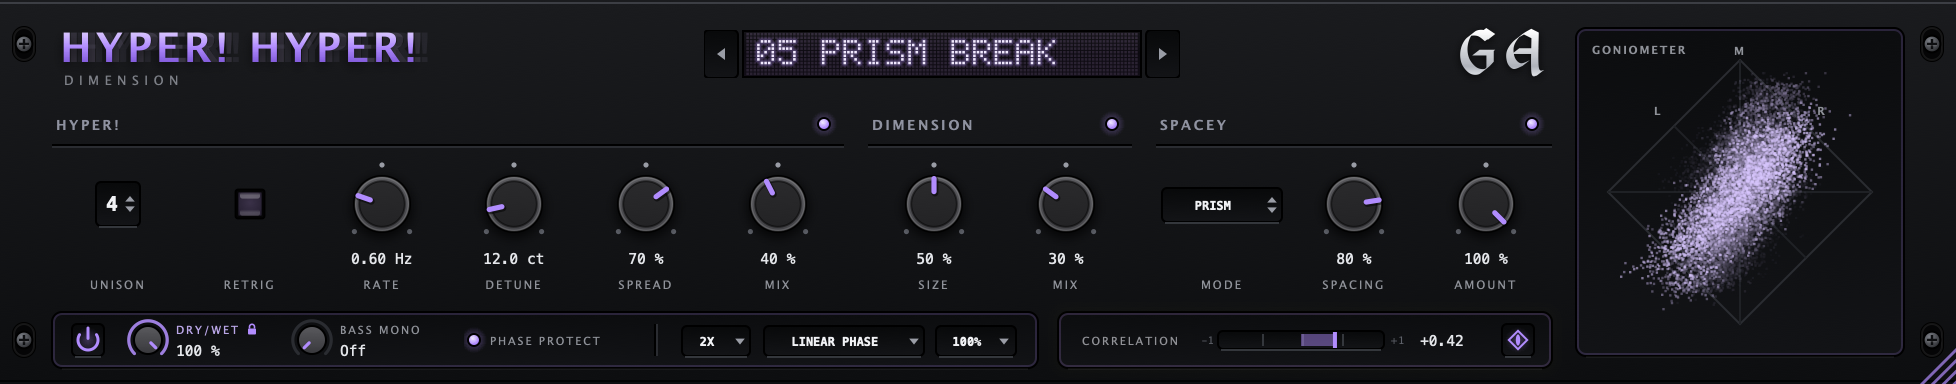
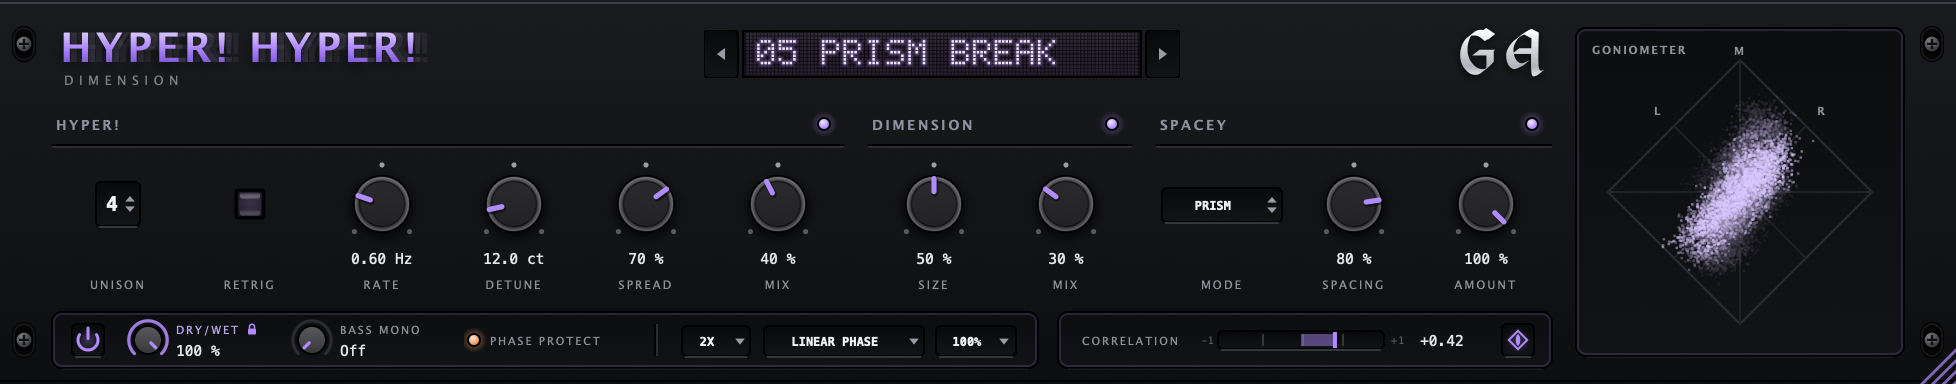
Phase Protect LED flashes instead of the meter, only above 2 dB; goniometer stays in bounds; lock fixes
- The Phase Protect LED flashes orange while it audibly narrows the sound (side pulled back
  by more than 2 dB); the correlation meter stays a pure meter. Measured on the factory
  presets: only those that would go negative without it get past 2 dB.
- Goniometer auto gain by the left / right peak with the right geometry: the diamond's edge is
  the current peak, no point can leave it.
- Lock: no underline on hover; the padlock is part of the click area, so it also unlocks.

Changed region(s): [[0.842, 0.2188, 0.9356, 0.7812], [0.2183, 0.875, 0.2495, 0.9062]]

diff --git a/Source/MainPanel.cpp b/Source/MainPanel.cpp
@@ -99,7 +99,7 @@ MainPanel::MainPanel (HyperDimAudioProcessor& p)
     dmix.setTooltip ("Dimension mix. At 0 % the Dimension section is off.");
     wamt.setTooltip ("Spacey amount. At 0 % the Spacey section is off.");
     bypass.setTooltip ("Bypass: click-free, at the same loudness as the effect. Dry/Wet at 0 % bypasses too.");
-    phaseProtect.setTooltip ("Phase Protect: keeps the effect mono-compatible. The correlation meter flashes orange while it works.");
+    phaseProtect.setTooltip ("Phase Protect: keeps the effect mono-compatible. The LED flashes orange while it audibly pulls the width back.");
     scopeButton.setTooltip ("Show / hide the goniometer");
     osFilter.setTooltip ("Anti-alias filter: Linear Phase (cleanest, more latency) or Low Latency (minimal delay)");
     sizeBox.setTooltip ("Window size (or drag the bottom right corner)");
@@ -244,16 +244,17 @@ void MainPanel::updateMeters()
     if (goniometer.isVisible())
         goniometer.push (scopeL.data(), scopeR.data(), n);
 
-    // Phase Protect at work: the correlation box flashes orange (held 0.5 s, so short bursts are seen)
+    // Phase Protect making an audible difference (side pulled back by more than 2 dB): its LED
+    // flashes orange, held 0.5 s so short bursts are seen. Below 2 dB it only fine-tunes; measured
+    // on the factory presets, only those that would otherwise go negative get past 2 dB.
     const auto now = juce::Time::getMillisecondCounterHiRes();
-    if (! allOff && proc.engine.protectActivity.load (std::memory_order_relaxed) > 0.02f)
+    if (! allOff && proc.engine.protectActivity.load (std::memory_order_relaxed) > 0.206f)   // 1 - 10^(-2/20)
         protectHoldUntil = now + 500.0;
     const float flash = now < protectHoldUntil ? 0.5f + 0.5f * std::cos ((float) (now * 0.001) * juce::MathConstants<float>::twoPi * 1.4f) : 0.0f;
     if (std::abs (flash - protectFlash) > 0.01f)
     {
         protectFlash = flash;
-        correlation.setAlarm (flash);
-        repaint (juce::Rectangle<int> (kCorX, kStripY, kCorW, kStripH).expanded (6));
+        phaseProtect.setAlarm (flash);
     }
 }
 
@@ -334,18 +335,7 @@ void MainPanel::paint (juce::Graphics& g)
     g.drawVerticalLine (kSdDiv + 1, (float) kStripY + 6.0f, (float) (kStripY + kStripH) - 6.0f);
 
     // correlation box; the goniometer opens to its right
-    const auto corBox = juce::Rectangle<float> ((float) kCorX, (float) kStripY, (float) kCorW, (float) kStripH);
-    ui::drawInsetPanel (g, corBox);
-    if (protectFlash > 0.0f)   // Phase Protect at work
-    {
-        for (auto glow : { std::pair<float, float> { 5.0f, 0.12f }, { 2.5f, 0.25f } })
-        {
-            g.setColour (ui::alarm.withAlpha (glow.second * protectFlash));
-            g.drawRoundedRectangle (corBox.expanded (glow.first * 0.5f), 5.0f + glow.first * 0.5f, glow.first);
-        }
-        g.setColour (ui::alarm.withAlpha (0.95f * protectFlash));
-        g.drawRoundedRectangle (corBox.reduced (1.0f), 4.0f, 1.0f);
-    }
+    ui::drawInsetPanel (g, juce::Rectangle<float> ((float) kCorX, (float) kStripY, (float) kCorW, (float) kStripH));
 
     if (goniometer.isVisible())
     {

diff --git a/Source/Meters.cpp b/Source/Meters.cpp
@@ -15,17 +15,12 @@ void CorrelationMeter::setTarget (float correlation, bool hasSignal)
     idle = ! hasSignal;
 }
 
-void CorrelationMeter::setAlarm (float amount)
-{
-    if (std::abs (amount - alarm) > 0.01f) { alarm = amount; repaint(); }
-}
-
 void CorrelationMeter::paint (juce::Graphics& g)
 {
     // CORRELATION  -1 [=====|==   ] +1  +0.82
     const float cy = (float) getHeight() * 0.5f;
     g.setFont (ui::font (6.5f, false, 0.15f));
-    g.setColour (ui::labelGrey.interpolatedWith (ui::alarm, alarm));   // orange while Phase Protect works
+    g.setColour (ui::labelGrey);
     g.drawText ("CORRELATION", juce::Rectangle<float> (4.0f, cy - 5.0f, 60.0f, 10.0f), juce::Justification::centredLeft, false);
 
     // the bar takes what is left between the label and the value
@@ -72,12 +67,14 @@ void Goniometer::push (const float* l, const float* r, int n)
     trail.multiplyAllAlphas (0.78f);   // persistence
     if (n > 0)
     {
+        // Auto gain, by the peak of the left or right channel: the diamond's edge is where one
+        // channel reaches the current peak, so no point can leave it. (With x = (R - L) / 2 and
+        // y = (L + R) / 2, |x| + |y| = max (|L|, |R|): the diamond is exactly the square L, R <= peak.)
         float peak = 0.0f;
         for (int i = 0; i < n; ++i)
-            peak = juce::jmax (peak, std::abs (l[i] + r[i]), std::abs (l[i] - r[i]));
-        peak *= 0.70710678f;
+            peak = juce::jmax (peak, std::abs (l[i]), std::abs (r[i]));
         env = juce::jmax (0.001f, peak > env ? peak : juce::jmax (peak, env * 0.97f));
-        const float gain = juce::jmin (16.0f, 0.9f / env);   // auto gain: quiet signals still fill the view
+        const float gain = juce::jmin (16.0f, 1.0f / env);   // quiet signals still fill the view
 
         juce::Graphics tg (trail);
         tg.addTransform (juce::AffineTransform::scale (2.0f));
@@ -87,8 +84,8 @@ void Goniometer::push (const float* l, const float* r, int n)
         const int stride = juce::jmax (1, n / 3000);
         for (int i = 0; i < n; i += stride)
         {
-            const float s = juce::jlimit (-1.05f, 1.05f, (r[i] - l[i]) * 0.70710678f * gain);   // left signal leans left
-            const float m = juce::jlimit (-1.05f, 1.05f, (l[i] + r[i]) * 0.70710678f * gain);
+            const float s = (r[i] - l[i]) * 0.5f * gain;   // left signal leans left
+            const float m = (l[i] + r[i]) * 0.5f * gain;
             tg.fillRect (cx + s * R - 0.6f, cy - m * R - 0.6f, 1.2f, 1.2f);
         }
     }

diff --git a/Source/Controls.cpp b/Source/Controls.cpp
@@ -91,14 +91,12 @@ void Knob::paint (juce::Graphics& g)
         ui::drawMiniKnob (g, { 12.0f, cy }, proportion(), hot);
 
         // the name; with a lock it is the lock switch: lavender with a padlock while locked,
-        // brighter and underlined with a faint open padlock while hovered
+        // brighter with a faint open padlock while hovered
         const auto name = nameArea();
         const auto lockColour = juce::Colour (0xffb9a6e6);
         g.setColour (locked ? lockColour : overName ? juce::Colour (0xffc9cbd1) : ui::labelGrey);
         g.setFont (ui::font (6.5f, false, 0.15f));
         g.drawText (nameText.toUpperCase(), name, juce::Justification::centredLeft, false);
-        if (overName && ! locked)
-            g.fillRect (name.getX(), name.getBottom() - 0.5f, name.getWidth(), 0.6f);
         if (locked || overName)
             ui::drawPadlock (g, name.getRight() + 2.5f, name.getY() + 1.5f, ! locked,
                              locked ? ui::purple : ui::purple.withAlpha (0.4f));
@@ -130,6 +128,11 @@ juce::Rectangle<float> Knob::nameArea() const
     return { 26.0f, cy - 10.0f, std::ceil (w) + 1.0f, 9.0f };
 }
 
+juce::Rectangle<float> Knob::lockArea() const
+{
+    return nameArea().withTrimmedRight (-9.0f).expanded (1.0f, 2.0f);
+}
+
 void Knob::setLockable (std::function<void()> onClick)
 {
     onLockClick = std::move (onClick);
@@ -144,7 +147,7 @@ void Knob::setLocked (bool shouldBeLocked)
 
 void Knob::mouseMove (const juce::MouseEvent& e)
 {
-    const bool over = onLockClick != nullptr && style == Style::mini && nameArea().expanded (1.0f, 2.0f).contains (e.position);
+    const bool over = onLockClick != nullptr && style == Style::mini && lockArea().contains (e.position);
     if (over != overName)
     {
         overName = over;
@@ -562,7 +565,7 @@ void SectionLed::paintButton (juce::Graphics& g, bool isOver, bool)
 void LedToggle::paintButton (juce::Graphics& g, bool isOver, bool)
 {
     const float cy = (float) getHeight() * 0.5f;
-    ui::drawLed (g, { 5.0f, cy }, getToggleState());
+    ui::drawLed (g, { 5.0f, cy }, getToggleState(), alarm);
     g.setColour (isOver ? juce::Colour (0xffc9cbd1) : ui::labelGrey);
     g.setFont (ui::font (6.5f, false, 0.15f));
     g.drawText (getButtonText().toUpperCase(), juce::Rectangle<float> (13.0f, cy - 5.0f, (float) getWidth() - 13.0f, 10.0f),

diff --git a/Source/UiStyle.cpp b/Source/UiStyle.cpp
@@ -236,17 +236,19 @@ namespace ui
 
 
     // round LED: lit while the section is active (its amount above 0)
-    void drawLed (juce::Graphics& g, juce::Point<float> c, bool on)
+    void drawLed (juce::Graphics& g, juce::Point<float> c, bool on, float alarm)
     {
         constexpr float r = 3.0f;
+        auto mix = [alarm] (juce::uint32 calm, juce::uint32 hot) { return juce::Colour (calm).interpolatedWith (juce::Colour (hot), alarm); };
+        const auto glow = mix (0xffb18cfe, 0xffff9a3c);
         if (on)
         {
-            g.setGradientFill (juce::ColourGradient (ui::purple.withAlpha (0.45f), c.x, c.y, ui::purple.withAlpha (0.0f), c.x + 6.5f, c.y, true));
+            g.setGradientFill (juce::ColourGradient (glow.withAlpha (0.45f + 0.2f * alarm), c.x, c.y, glow.withAlpha (0.0f), c.x + 6.5f, c.y, true));
             g.fillEllipse (c.x - 6.5f, c.y - 6.5f, 13.0f, 13.0f);
         }
-        juce::ColourGradient lens (on ? juce::Colour (0xfff3ecff) : juce::Colour (0xff3a3148), c.x - 0.6f, c.y - 0.9f,
-                                   on ? juce::Colour (0xff7c55d6) : juce::Colour (0xff1e1a26), c.x + r, c.y + r, true);
-        if (on) lens.addColour (0.55, ui::purple);
+        juce::ColourGradient lens (on ? mix (0xfff3ecff, 0xfffff0e0) : juce::Colour (0xff3a3148), c.x - 0.6f, c.y - 0.9f,
+                                   on ? mix (0xff7c55d6, 0xffc8641e) : juce::Colour (0xff1e1a26), c.x + r, c.y + r, true);
+        if (on) lens.addColour (0.55, glow);
         g.setGradientFill (lens);
         g.fillEllipse (c.x - r, c.y - r, r * 2.0f, r * 2.0f);
         g.setColour (juce::Colours::black);

diff --git a/Source/UiStyle.h b/Source/UiStyle.h
@@ -10,7 +10,6 @@ namespace ui
     inline const juce::Colour text      { 0xfff0f1f3 };
     inline const juce::Colour labelGrey { 0xff8f9299 };
     inline const juce::Colour warn      { 0xffff7a8a };   // negative correlation
-    inline const juce::Colour alarm     { 0xffff9a3c };   // Phase Protect at work, safety mute
 
     constexpr int kWidth = 802, kHeight = 192;   // size at 100 %
     constexpr int kScopeExtra = 176;             // added to the width while the goniometer is open
@@ -36,8 +35,8 @@ namespace ui
     void drawKnob (juce::Graphics&, juce::Point<float> centre, float pos, bool hot);
     void drawMiniKnob (juce::Graphics&, juce::Point<float> centre, float pos, bool hot);
 
-    // round section LED
-    void drawLed (juce::Graphics&, juce::Point<float> centre, bool on);
+    // round LED; alarm 0..1 turns a lit LED from lavender to orange
+    void drawLed (juce::Graphics&, juce::Point<float> centre, bool on, float alarm = 0.0f);
 
     // small padlock, 5 x 6, top left at (x, y); open = shackle lifted
     void drawPadlock (juce::Graphics&, float x, float y, bool open, juce::Colour);

diff --git a/Source/Controls.h b/Source/Controls.h
@@ -30,6 +30,7 @@ public:
 private:
     float proportion() const { return param.convertTo0to1 (value); }
     juce::Rectangle<float> nameArea() const;
+    juce::Rectangle<float> lockArea() const;   // the name plus the padlock after it: the click area
     juce::String valueString() const;
     float toTravel (float prop) const;
     float fromTravel (float t) const;
@@ -129,7 +130,11 @@ public:
         setClickingTogglesState (true);
         setMouseCursor (juce::MouseCursor::PointingHandCursor);
     }
+    void setAlarm (float amount) { if (std::abs (amount - alarm) > 0.01f) { alarm = amount; repaint(); } }   // 0..1, orange
     void paintButton (juce::Graphics&, bool isOver, bool isDown) override;
+
+private:
+    float alarm = 0.0f;
 };
 
 // small drop-down box for a setting that is not a parameter (window size)

diff --git a/Source/Meters.h b/Source/Meters.h
@@ -7,11 +7,10 @@ class CorrelationMeter : public juce::Component
 {
 public:
     void setTarget (float correlation, bool hasSignal);   // no signal: glides slowly back to 0
-    void setAlarm (float amount);                          // 0..1: how orange the label is (Phase Protect at work)
     void paint (juce::Graphics&) override;
 
 private:
-    float shown = 0.0f, alarm = 0.0f;
+    float shown = 0.0f;
     bool idle = true;   // no signal: drawn greyed out
 };
 

diff --git a/Source/MainPanel.h b/Source/MainPanel.h
@@ -73,7 +73,7 @@ private:
     double accLR = 0.0, accLL = 0.0, accRR = 0.0;
     int silentFrames = 0, shownLatency = -1;
     bool allOff = false;          // Bypass on or Dry/Wet at 0
-    float protectFlash = 0.0f;    // 0..1, the orange flash of the correlation box
+    float protectFlash = 0.0f;    // 0..1, the orange flash of the Phase Protect LED
     double protectHoldUntil = 0.0;
     bool sectionsKnown = false;
 

diff --git a/README.md b/README.md
@@ -70,8 +70,8 @@ position is each mode's default, and the knob briefly holds there as you drag pa
   the ear hears it (K-weighted, ITU-R BS.1770). More voices, more width or more drive never make it
   louder, and Bypass compares at the same level. So you judge the sound, not the volume.
 - **Phase Protect** (on by default). If the effect pushes the stereo correlation below +0.2, it pulls
-  back what the effect changed until the signal is mono-compatible again, and the correlation meter
-  flashes orange while it does. It never touches your input: width the source already has stays, and
+  back what the effect changed until the signal is mono-compatible again. Its LED flashes orange
+  while it audibly narrows the sound (more than 2 dB); smaller corrections happen quietly. It never touches your input: width the source already has stays, and
   with all sections off the output is the input, sample for sample.
 - **Safety mute.** Absurd levels (above +24 dBFS) or broken audio (NaN) silence the plug-in at once,
   like REAPER does. The display shows *OUTPUT MUTED*; click it to resume.
@@ -97,12 +97,12 @@ position is each mode's default, and the knob briefly holds there as you drag pa
 6. **Bypass**, at equal loudness. Bypass and Dry/Wet at 0 % dim the whole interface.
 7. **Dry/Wet** for the whole effect. Click the name to lock it (padlock, as shown).
 8. **Bass Mono**: mono below this frequency. Click the name to lock it.
-9. **Phase Protect** on / off.
+9. **Phase Protect** on / off. The LED flashes orange while it audibly narrows the sound (as in the picture).
 10. **Oversampling.** The tooltip shows the current latency.
 11. **Anti-alias filter**: Linear Phase or Low Latency.
 12. **Window size**, 75–200 %. You can also drag the bottom right corner.
 13. **Correlation meter.** +1 is mono and 0 is very wide. Below 0 (red) means parts of the
-    signal cancel in mono. Flashes orange while Phase Protect works (as in the picture).
+    signal cancel in mono.
 14. **Goniometer.** Opens the stereo scope next to the meter:
 
 ![With the goniometer open](docs/goniometer.png)
